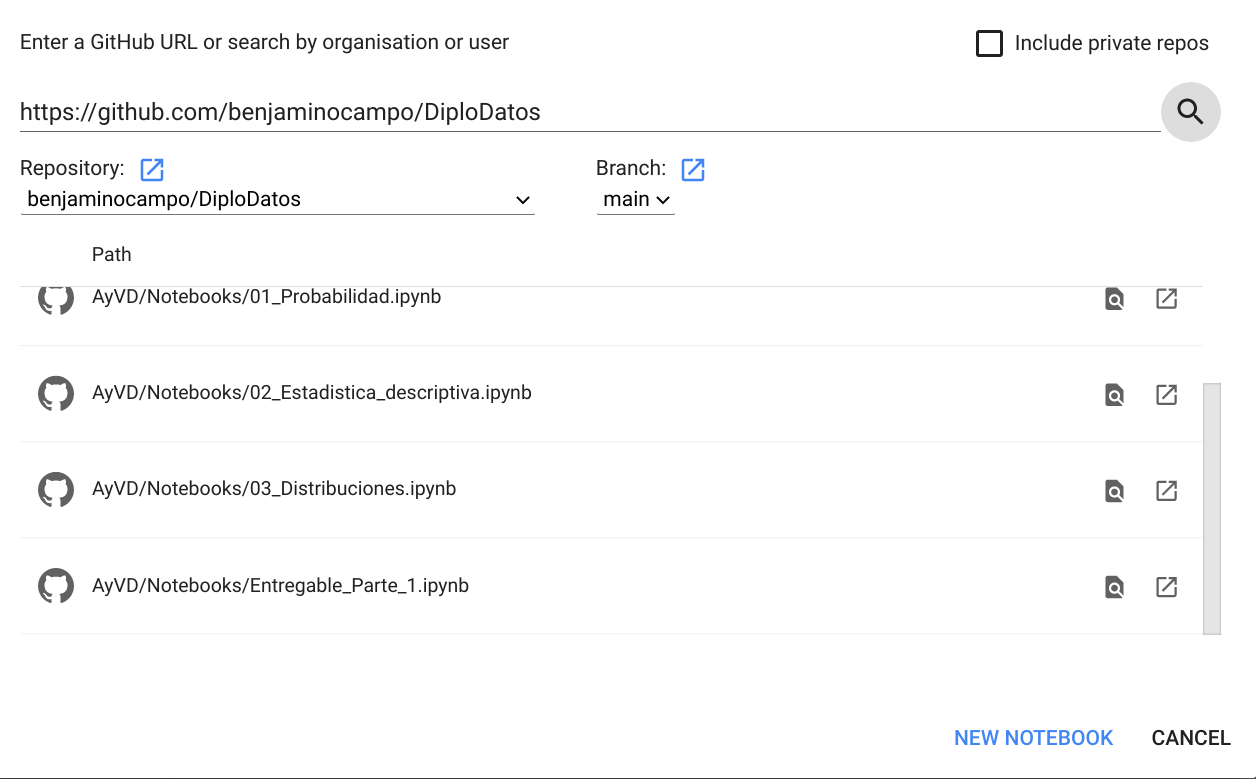
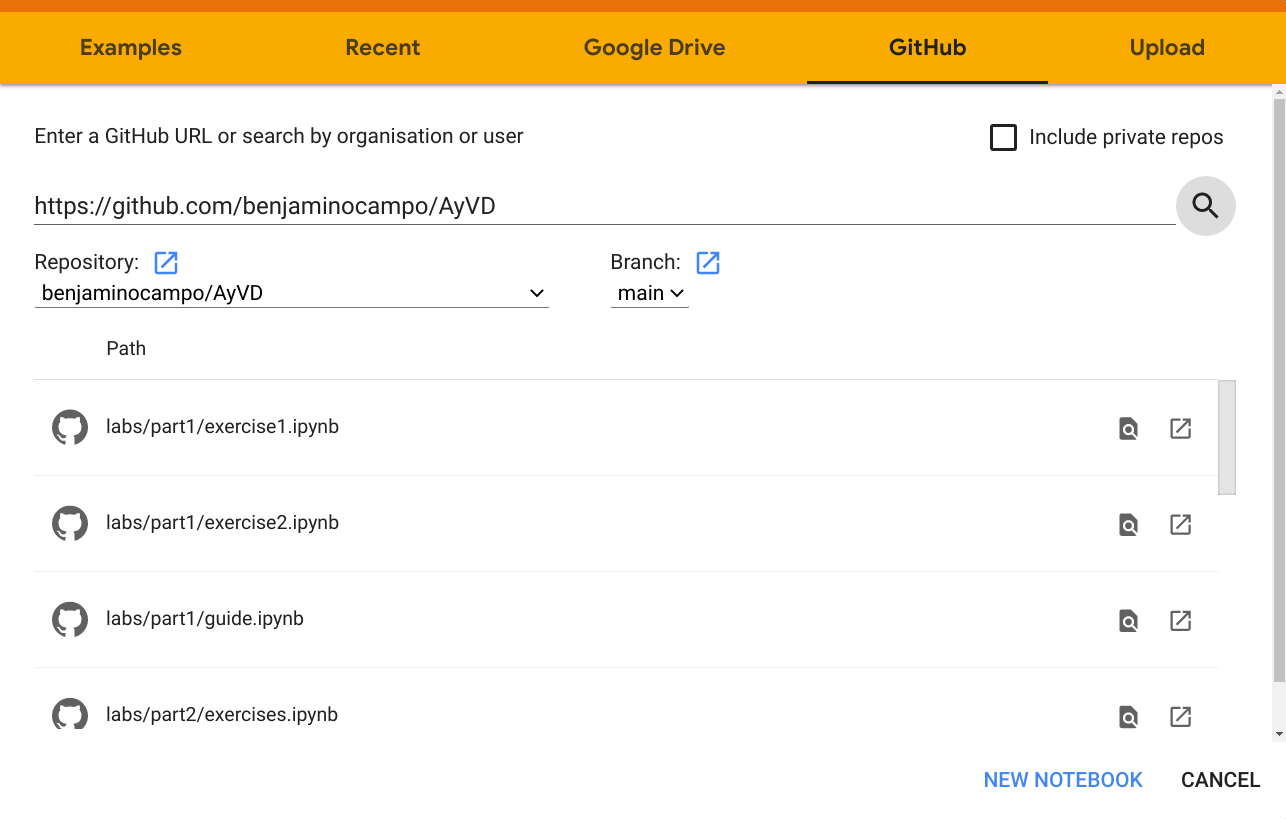
Updating README

diff --git a/README.md b/README.md
@@ -16,7 +16,7 @@ computer than just you're favourite browser.
     ![Welcome Window](docs_images/colab_github_part1.png)
 
 2. Click on the GitHub tab and paste the url of this repository
-   <https://github.com/benjaminocampo/DiploDatos> on the text blank it shows.
+   <https://github.com/benjaminocampo/AyVD> on the text blank it shows.
    Then click on the search button to check which notebooks are saved in this
    repository.
 
@@ -27,34 +27,11 @@ computer than just you're favourite browser.
 
     ![GitHub tab](docs_images/colab_github_part3.png)
 
-4. Then you can start working with the notebook!
+4. Then you can start running the notebook!
 
     ![Notebooks](docs_images/colab_github_part4.png)
 
-5. In order to save notebooks to this repository, choose **File -> Save a copy
-   to GitHub**.
-
-    ![Saving Notebooks](docs_images/colab_github_part5.png)
-
-6. Google Colab will ask for GitHub permissions so we just click on **Authorize
-   googlecolab**.
-
-    ![Saving Notebooks](docs_images/colab_github_part6.png)
-
-7. Then we add a commit message for our changes. In this case is *Google Colab +
-   GitHub tutorial.* but you can add whatever you want in that field.
-
-    (Tip: Try to write a message that tells the group what you've changed in the
-    notebook).
-
-    ![GitHub Commit](docs_images/colab_github_part7.png)
-
-8. Finally, you'll see these changes in the repository.
-
-    ![GitHub Commit](docs_images/colab_github_part8.png)
-
 ### Running locally through Conda + Jupyter + VirtualEnv + Git
-
 
 #### Conda
 
@@ -90,9 +67,9 @@ the most important ones if you're unfamiliar with them:
 
 #### Git
 
-In order to install `git` it will depend on your operative system:
+Installing `git` will depend on your operative system:
 
-- Installing on Linux (on Debian-based distributions): 
+- Installing on Linux (on Debian-based distributions):
 
     ```bash
     sudo apt install git-all
@@ -108,15 +85,15 @@ or Anaconda Prompt and run:
 git --version
 ```
 
-If it shows your current git version, you can move on with the next step!
+If it shows your current git version, you can move on with next step!
 
 #### Cloning this repository
 
-After installing git you can clone this repository to have a local version of
-it. Open a terminal in the directory you want to save this repository and run:
+After installing git, you can clone this repository to have a local version of
+it. Open a terminal in the directory you want to save it and run:
 
 ```bash
-git clone https://github.com/benjaminocampo/DiploDatos.git
+git clone https://github.com/benjaminocampo/AyVD.git
 ```
 
 #### Setting up a Virtual Environment
@@ -135,12 +112,13 @@ dependencies:
   - numpy
   - pandas
   - matplotlib
+  - statsmodels
   - seaborn=0.11
 ```
 
 That means that the environment to create has the name diplodatos-ayvd and the
 dependencies are `seaborn=0.11` and the newest versions of `numpy`, `pandas`,
-and `matplotlib`.
+`matplotlib`, and `statsmodels`
 
 The steps to create a virtual environment with these dependencies are the
 following:
@@ -154,8 +132,6 @@ following:
     conda env create -f environment.yml
     ```
 
-    ![conda create](docs_images/conda_jupyter_venv_part2.png)
-
     (Note: This step might take some time).
 
 3. Activate the environment in order to have available the dependencies with:
@@ -164,11 +140,26 @@ following:
     conda activate diplodatos-ayvd
     ```
 
-    It must show the name of the environment in parenthesis like this.
+    The active environment is also displayed in front of your prompt in
+    (parentheses) or [brackets] like this:
 
-    ![conda activate](docs_images/conda_jupyter_venv_part3.png)
+    ```bash
+    (diplodatos-ayvd)$
+    ```
 
-4. Run jupyter lab or jupyter notebook with:
+4. If you don't have installed ipykernel on your system, run:
+
+    ```bash
+    conda install -c anaconda ipykernel
+    ```
+
+    Then, add the active environment to jupyter so its recognized as a new kernel:
+
+    ```bash
+    ipython kernel install --user --name=diplodatos-ayvd
+    ```
+
+5. Run jupyter lab or jupyter notebook with:
 
     ```bash
     jupyter lab
@@ -182,10 +173,16 @@ following:
     jupyter notebook
     ```
 
-
     ![jupyter notebook](docs_images/conda_jupyter_venv_part5.png)
 
-5. The previous step should have opened a tab on your browser with the
+6. The previous step should have opened a tab on your browser with the
    application. Open the jupyter notebook you're working on.
 
-6. You're ready to do science!
+7. Be sure that jupyter is using the kernel you have just set by choosing
+   **Kernel -> Change Kernel**:
+
+    ![jupyter notebook](docs_images/conda_jupyter_venv_part6.png)
+
+    ![jupyter notebook](docs_images/conda_jupyter_venv_part7.png)
+
+8. You're ready to do science!
